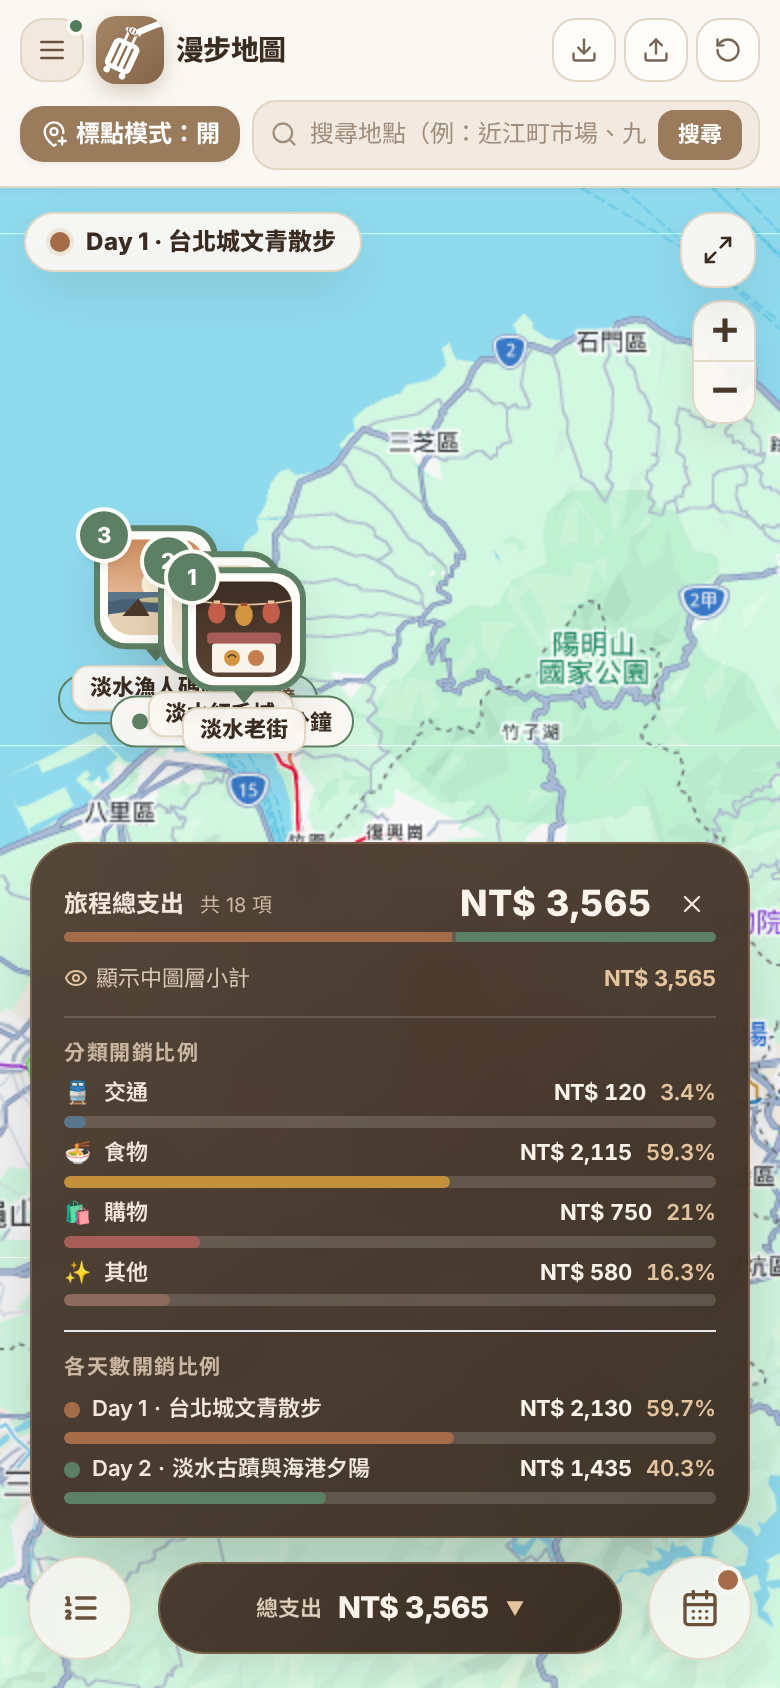
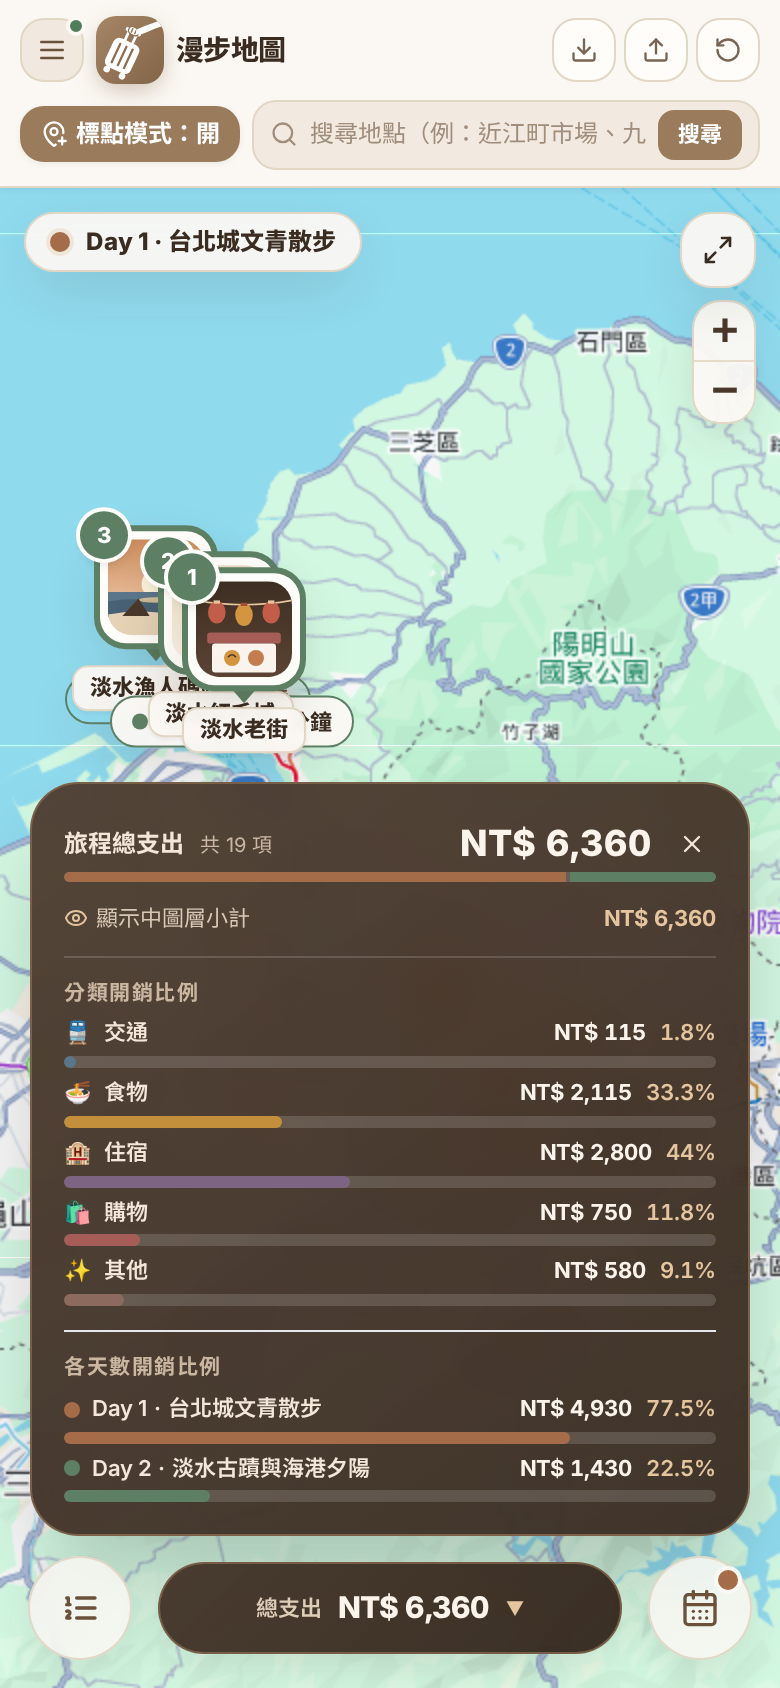
docs: update README and high-res screenshots for latest features and mobile split-day UX

diff --git a/README.md b/README.md
@@ -17,46 +17,75 @@
 
 ---
 
-### 2. 點到點交通規劃：大眾運輸即時方案、班次與多國匯率自動結算
-任意兩個景點之間都能快速設定汽車、機車、大眾運輸、自行車或步行的真實貼路路線。選擇**大眾運輸**時，支援全球 Google Routes 與日本 NAVITIME 分段路線查詢，直接呈現完整轉乘方案、路線代表色、發車與抵達時刻並自動帶入交通票價；內建 **TWD、JPY、KRW、USD、EUR、HKD、THB、SGD、GBP、CNY** 等 10 種常用幣別，外幣車資即時換算為新台幣並納入總支出。
+### 2. 點到點交通規劃：大眾運輸班次、公車號碼優先呈現與多國匯率自動結算
+任意兩個景點之間都能快速設定汽車、機車、大眾運輸、自行車或步行的真實貼路路線。選擇**大眾運輸**時，支援全球 Google Routes 與日本 NAVITIME 分段路線查詢，直接呈現完整轉乘方案、官方路線代表色、發車與抵達時刻並自動帶入票價；**公車與客運路線優先顯示號碼**（如 `307`、`紅26`、`都08`、`205`，無號碼時才退回顯示路線名稱），搭車辨識更直覺。內建 **TWD、JPY、KRW、USD、EUR、HKD、SGD、THB、GBP、AUD** 等 10 種常用幣別，外幣車資即時換算為新台幣並納入總支出。
 
-![點到點大眾運輸分段班次與多國匯率換算](docs/images/02-transit-fare-fx.png)
-
----
-
-### 3. 自訂景點名稱與拍立得插圖，支援小景點細項與分類記帳
-每一個標點皆可自由命名、撰寫營業資訊與行前筆記，並可上傳本機照片（自動壓縮）、貼上圖片網址，或一鍵套用 8 款手繪風旅遊插畫，以拍立得氣泡呈現在地圖上。點開景點還能細分多筆「小景點」項目，依 **🍜 食物、🚆 交通、🛍 購物、✨ 其他** 四大類別記錄花費，讓旅程細節與花費清清楚楚。
-
-![景點自訂名稱、拍立得圖片與小景點分類支出](docs/images/03-pin-detail-categories.png)
+![點到點大眾運輸分段班次、公車號碼與多國匯率換算](docs/images/02-transit-fare-fx.png)
 
 ---
 
-### 4. 多天數獨立圖層，自由開關呈現讓規劃更專注
-一趟旅行可依行程天數自由增設多組色彩圖層（Day 1、Day 2、Day 3…），並透過右側「眼睛」按鈕獨立切換各天數在地圖上的顯示或隱藏狀態。規劃跨區長途旅程時，可隨時聚焦檢視單日動線，畫面依然俐落不凌亂。
+### 3. 自訂景點插圖、11 款內建圖標 × 小景點多幣別記帳（含住宿分類）
+每一個標點皆可自由命名、撰寫營業資訊與行前筆記，並可上傳本機照片（自動壓縮）、貼上圖片網址，或一鍵套用 **11 款貓頭鷹大地色系主題插畫**（包含全新加入的 **✈ 機場、🚉 車站、🏡 民宿**），以拍立得氣泡呈現在地圖上。點開景點還能記錄多筆「小景點與支出」細項，依 **🚆 交通、🍜 食物、🏨 住宿、🛍 購物、✨ 其他** 五大類別統計，且**每一筆支出皆可直接選擇外幣並即時自動換算為新台幣**。
+
+![景點自訂名稱、11 款預設圖標、住宿分類與多幣別即時換算](docs/images/03-pin-detail-categories.png)
+
+---
+
+### 4. 地圖長按標點即可拖曳微調位置
+在電腦滑鼠或手機觸控螢幕上，只要**長按地圖上的任一標點**，標點便會浮起並顯示「拖曳調整位置」光暈提示，直接拖曳至更精準的出入口或巷弄位置即可完成定位；放開後會自動更新座標並重新整理相連的交通路徑，不需刪掉重設。
+
+![地圖長按標點拖曳微調位置](docs/images/07-longpress-pin-move.png)
+
+---
+
+### 5. 多天數獨立圖層，自由開關呈現讓規劃更專注
+一趟旅行可依行程天數自由增設多組色彩圖層（Day 1、Day 2、Day 3…），並透過「眼睛」按鈕獨立切換各天數在地圖上的顯示或隱藏狀態。規劃跨區長途旅程時，可隨時聚焦檢視單日動線，畫面依然俐落不凌亂。
 
 ![多天數獨立圖層自由開關呈現](docs/images/04-day-layers.png)
 
 ---
 
-### 5. 多旅遊計畫獨立珍藏 × 個人 Google 雲端硬碟多裝置同步
+### 6. 手機版專屬：天數快速聯動 × 單日眼睛／齒輪微控
+針對手機單手操作特別優化（不影響電腦與橫向平板三欄排版）：
+- 單純點擊左下角行程圓球時，以原尺寸展開半透明浮動行程清單，上方地圖仍可自由滑動。
+- 點開右下角天數圓球並直接點擊任一「第 N 天」正方形，會**立即切換至該天行程**，同時左側彈出**微窄靠左的半透明行程排表**，並在該天正方形旁跳出 **👁 眼睛小圓**（即時開關地圖圖層）與 **⚙ 齒輪小圓**（一鍵檢視單日分類預算、更名或刪除）。
+
+<table>
+  <tr>
+    <td width="50%" align="center" valign="top">
+      <img src="docs/images/08a-mobile-split-day.png" alt="手機版點擊天數正方形同步展開變窄行程表與眼睛齒輪小圓" />
+      <br />
+      <sub><strong>天數雙開聯動</strong>：點「第 N 天」立即跳轉並同步展開變窄行程表與 👁／⚙ 小圓</sub>
+    </td>
+    <td width="50%" align="center" valign="top">
+      <img src="docs/images/08b-mobile-gear-settings.png" alt="手機版齒輪小圓展開單日詳細設定與分類預算" />
+      <br />
+      <sub><strong>單日詳細設定</strong>：點 ⚙ 齒輪查看當日分類預算、切換顯示、重新命名或刪除</sub>
+    </td>
+  </tr>
+</table>
+
+---
+
+### 7. 多旅遊計畫獨立珍藏 × 個人 Google 雲端硬碟多裝置同步
 點擊左上角選單即可建立、切換、複製或管理多份彼此獨立的旅遊計畫——開啟下一趟旅程不必覆蓋先前的安排，完整保留每一段自由行回憶。除了瀏覽器內建 `localStorage + IndexedDB` 雙重本地備份，更支援登入個人 Google 帳號，將行程自動存入**使用者自己的 Google 雲端硬碟**，零資料庫成本即可在電腦、平板與手機間無縫備份與接續編輯。
 
 ![多旅遊計畫獨立保存與 Google 雲端硬碟同步](docs/images/05-trips-cloud-sync.png)
 
 ---
 
-### 6. 總支出即時掌握：電腦版右下角 × 手機版底部中央，一鍵查看開銷比例
-無論在哪種裝置上都能隨時掌握旅費分配——電腦與平板版於右下角呈現深咖總支出卡片，手機版則以長條圓弧膠囊懸浮於畫面底部正中央。點擊即可展開視覺化統計條，一目了然檢視「交通／食物／購物／其他」四大分類比例以及各天數的開銷佔比。
+### 8. 總支出即時掌握：電腦版右下角 × 手機版底部中央，一鍵查看五大分類比例
+無論在哪種裝置上都能隨時掌握旅費分配——電腦與平板版於右下角呈現深咖總支出卡片，手機版則以長條圓弧膠囊懸浮於畫面底部正中央。點擊即可展開視覺化統計條，一目了然檢視 **「交通／食物／住宿／購物／其他」五大分類比例** 以及各天數的開銷佔比。
 
 <table>
   <tr>
     <td width="68%" align="center" valign="top">
-      <img src="docs/images/06a-expense-desktop.png" alt="電腦版右下角總支出與開銷比例展開" />
+      <img src="docs/images/06a-expense-desktop.png" alt="電腦版右下角總支出與五大分類開銷比例展開" />
       <br />
-      <sub><strong>電腦／平板版</strong>：右下角總支出卡片點開顯示分類與各天比例</sub>
+      <sub><strong>電腦／平板版</strong>：右下角總支出卡片點開顯示五大分類與各天比例</sub>
     </td>
     <td width="32%" align="center" valign="top">
-      <img src="docs/images/06b-expense-mobile.png" alt="手機版底部中央長條圓弧總支出與開銷比例展開" />
+      <img src="docs/images/06b-expense-mobile.png" alt="手機版底部中央長條圓弧總支出與五大分類開銷比例展開" />
       <br />
       <sub><strong>手機版</strong>：底部中央長條圓弧直接顯示總支出，點擊展開明細</sub>
     </td>
